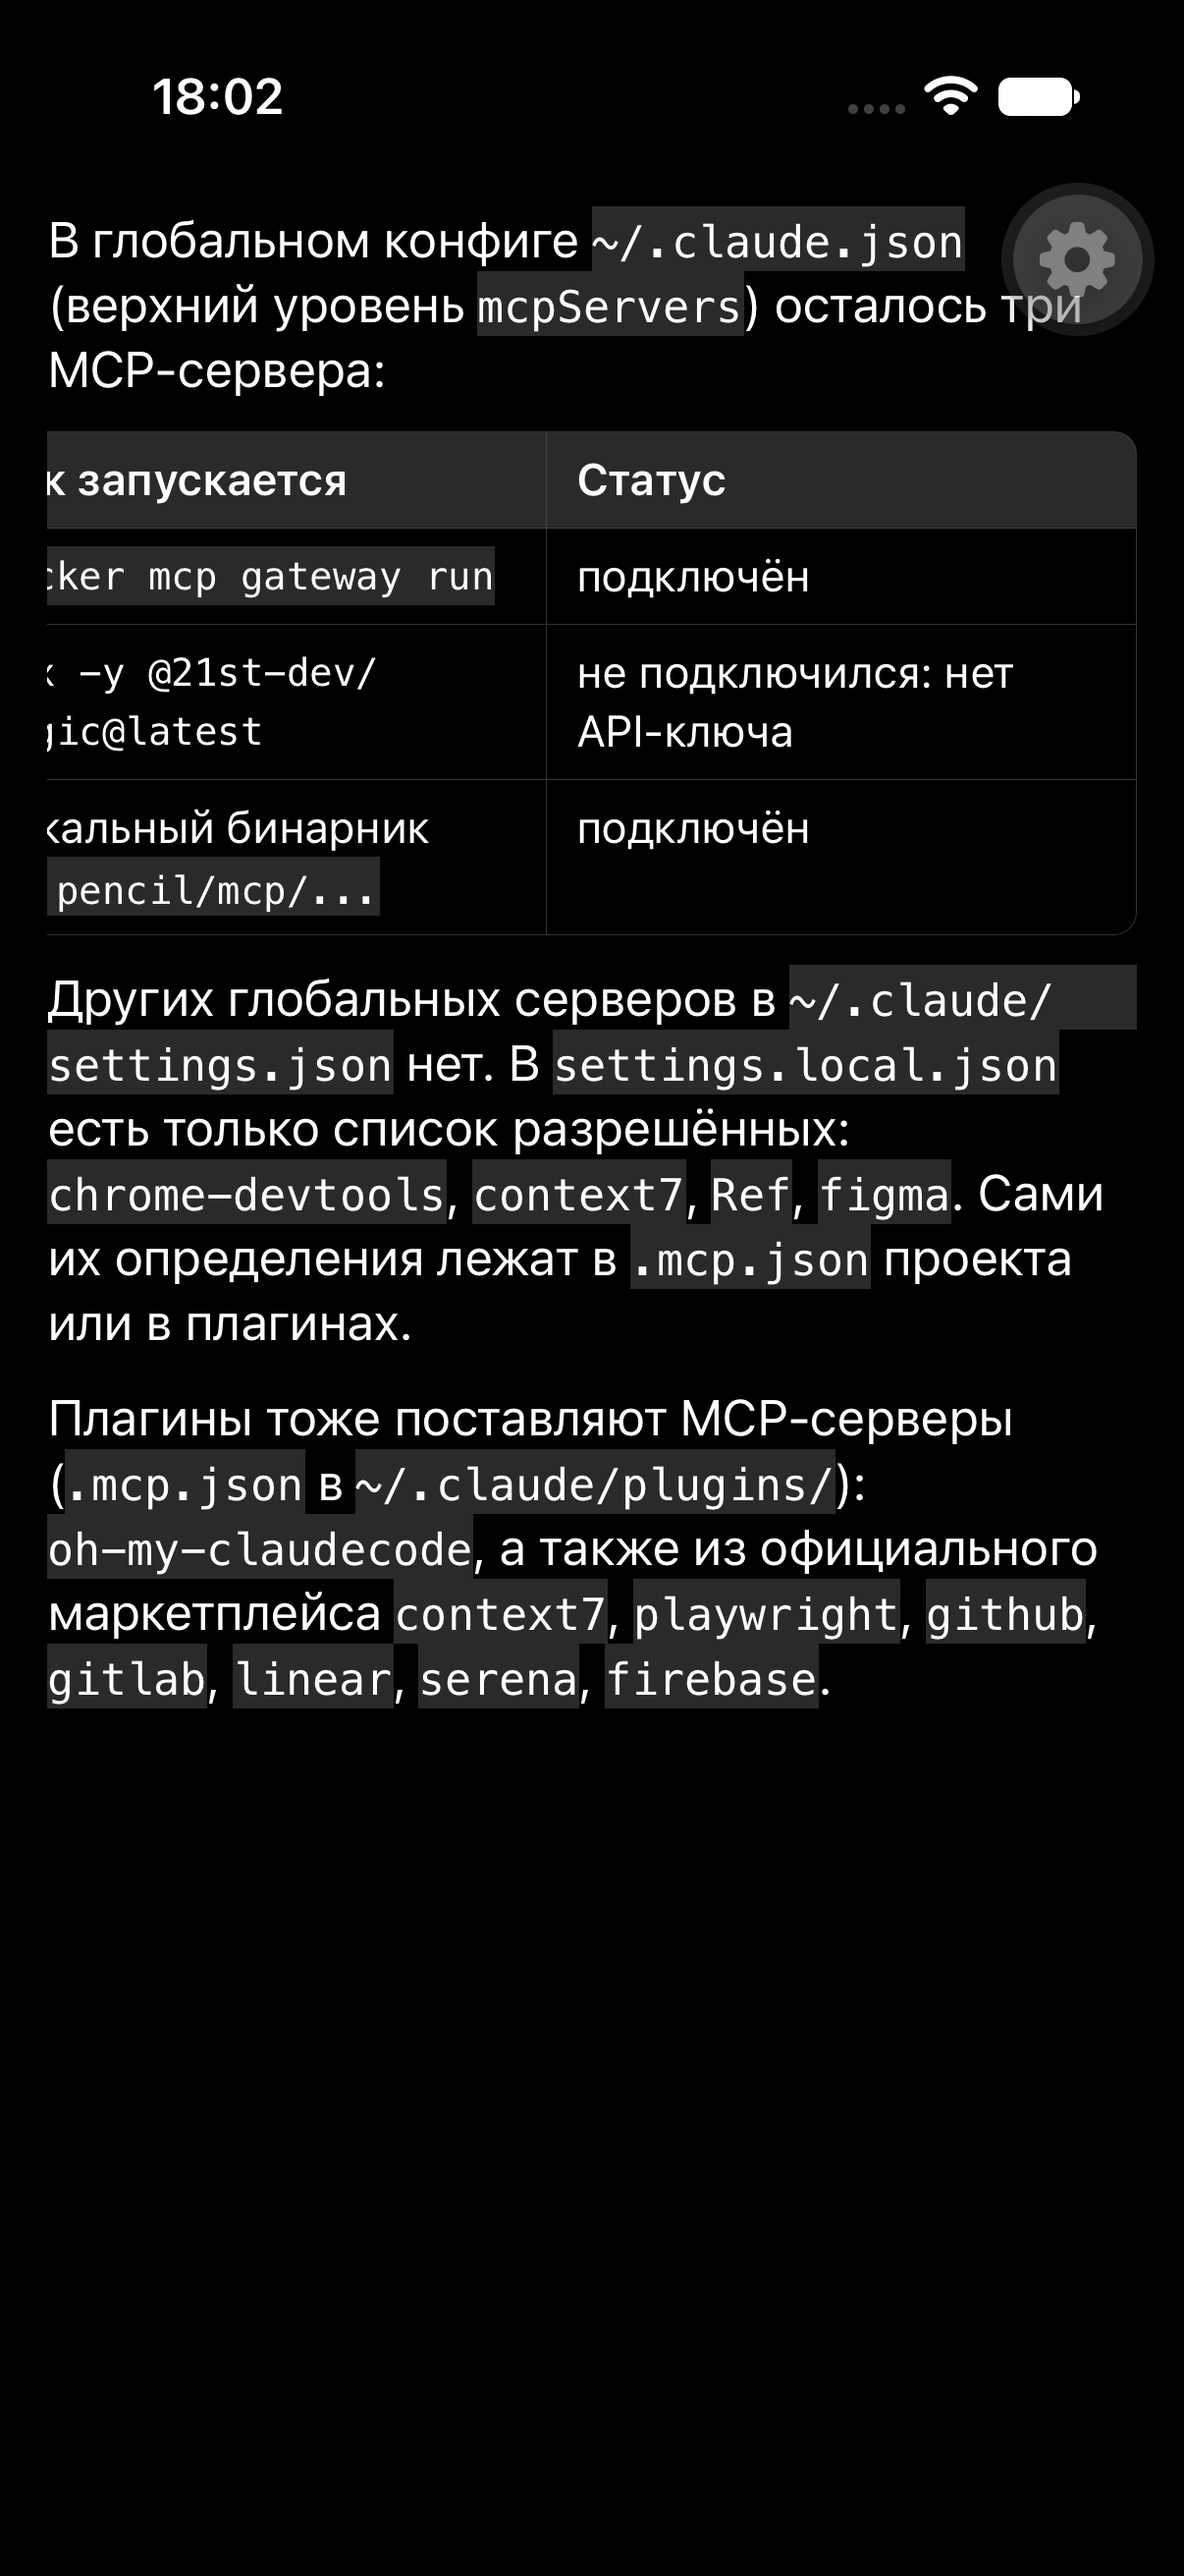
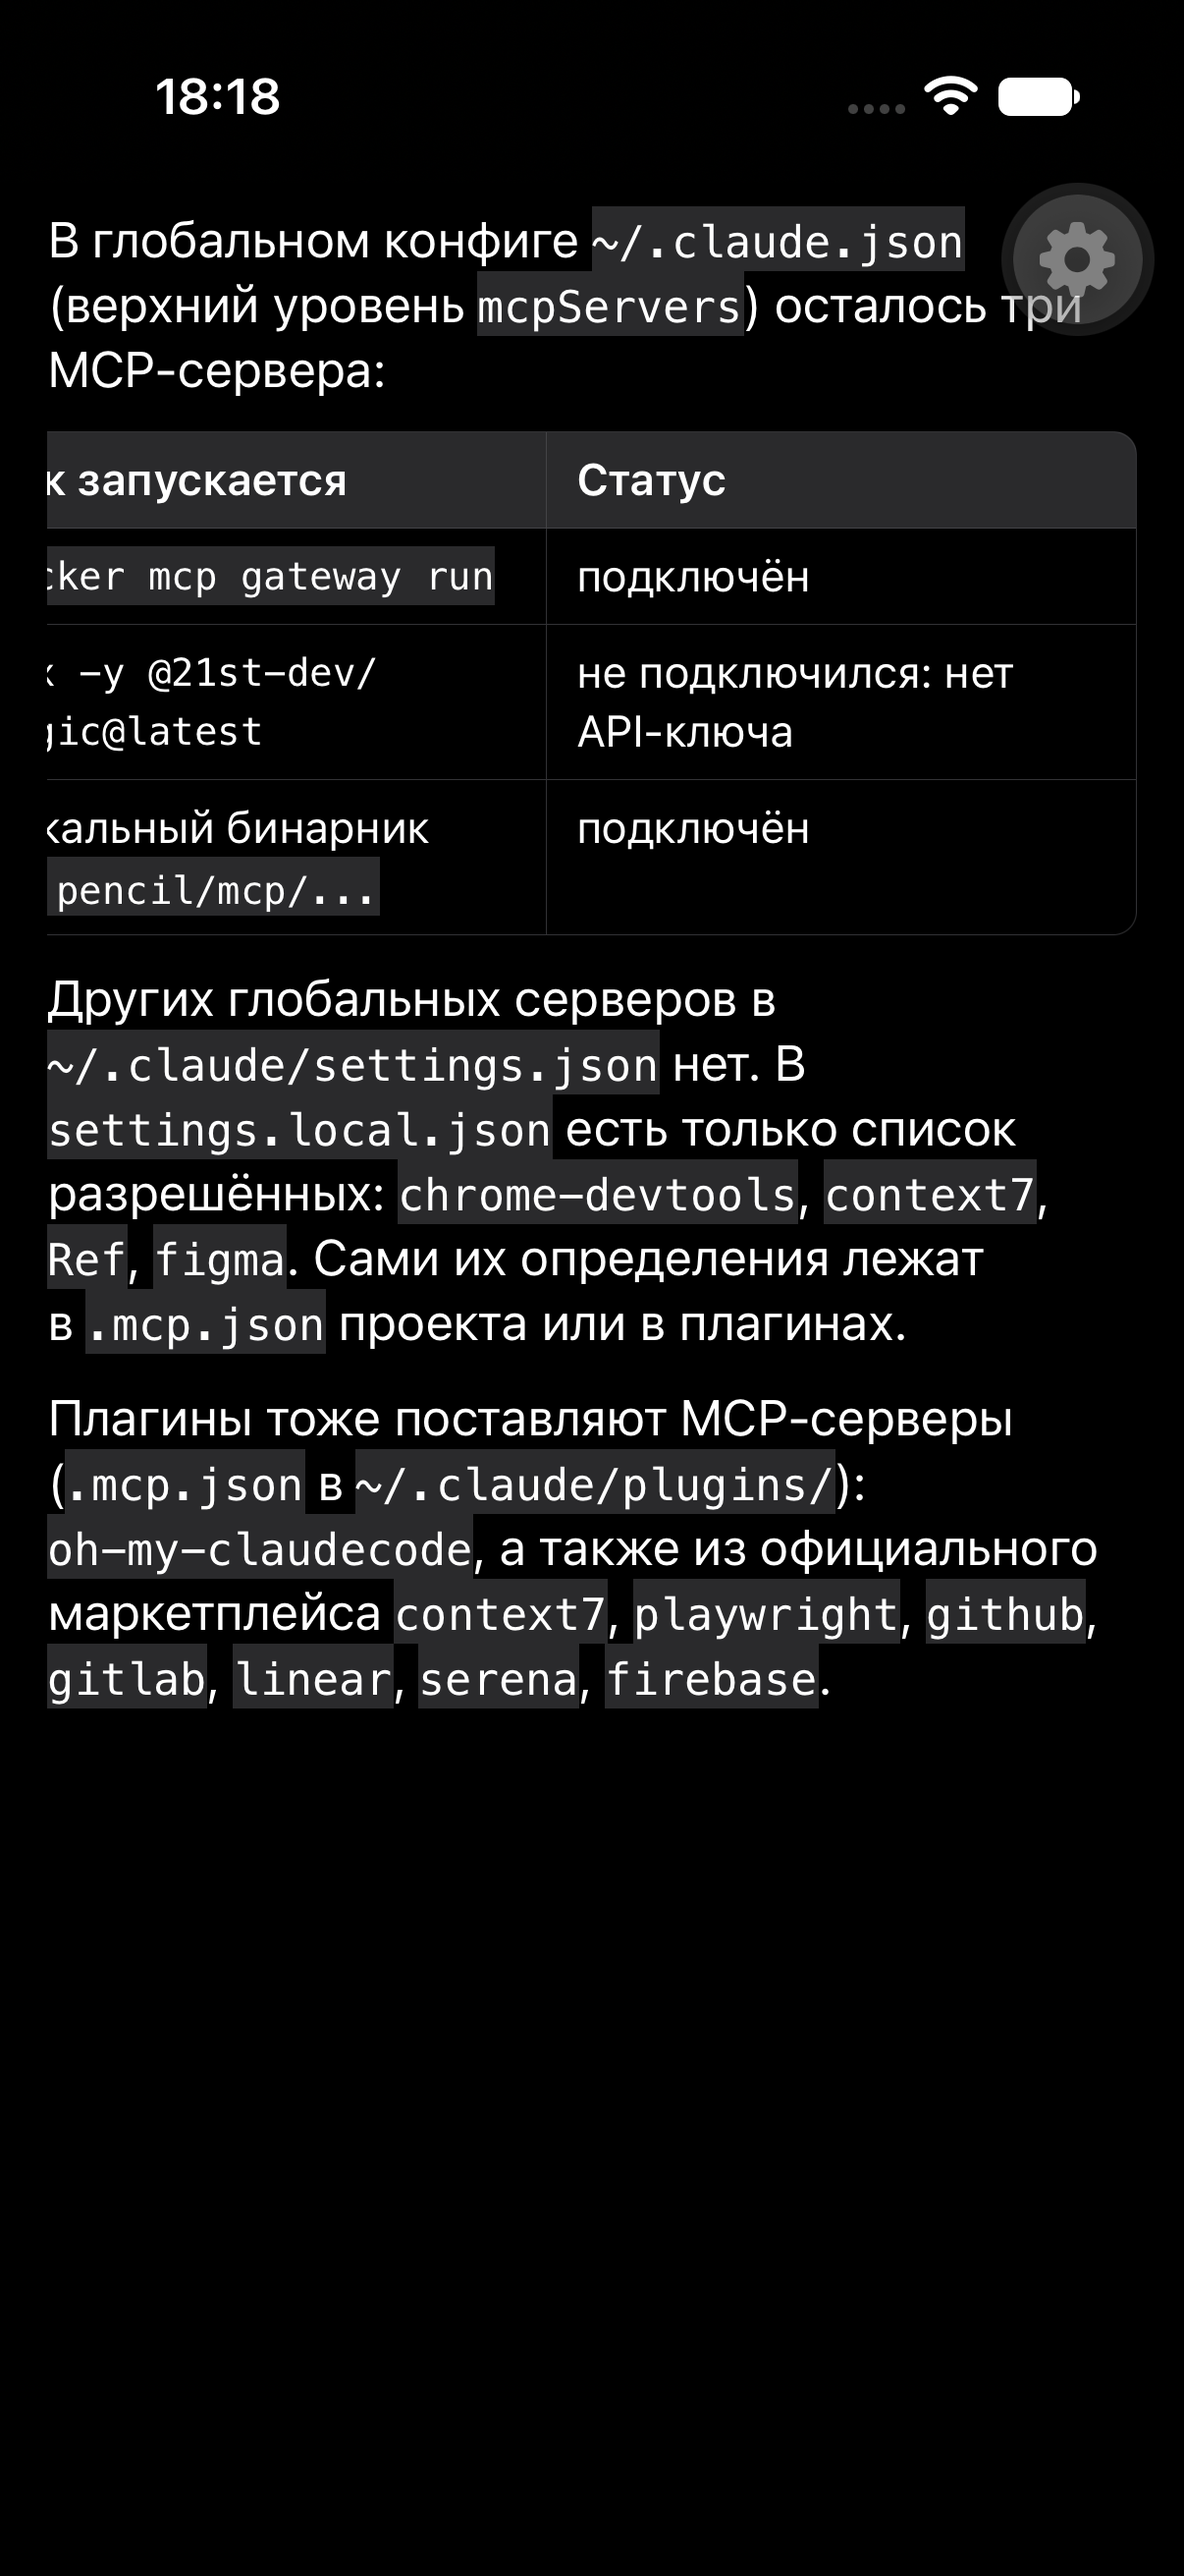
fix(mobile): A40 fourth round - the fence skip can no longer hide a bomb
M6 a fence is recognised as CommonMark does (a backtick fence has no backtick
in its info string; fences also inside quotes); no fence counts inside a
candidate HTML block (up to the next blank line), and HTML blocks of types
1-5 switch the code skip off for the rest of the text; every guard count is
also kept over the whole text with nothing skipped and any of them over 4x its
limit shows raw text. The bomb regression now also runs each generator behind
a fake fence, an HTML block, an HTML comment, a tilde info line and a quote
fence. m17 a heading ends the lazy-line count. m14 short inline code that
keeps its fill does not wrap (U+2060 after "/", no-break spaces). Screenshots
table and path retaken.

Changed region(s): [[0.0307, 0.3707, 0.9818, 0.5252], [0.1227, 0.0309, 0.2454, 0.0618]]

diff --git a/packages/mobile/src/markdown/parse.ts b/packages/mobile/src/markdown/parse.ts
@@ -69,65 +69,114 @@ export const MD_BRACKETS_MAX = 2000;
 export const MD_BRACKET_DEPTH_MAX = 32;
 export const MD_LAZY_RUN_MAX = 500;
 export const MD_LINES_MAX = 5000;
+/** The counts over the whole text (code not skipped) may reach this many times a limit. */
+const BACKSTOP = 4;
 
 /** A quote or list marker; `>` needs no space after it (CommonMark), a list marker does. */
 const MARKER = '(?:>|(?:[-+*]|\\d{1,9}[.)])(?=[ \\t]|$))';
 /** Quote and list markers on one line, counted together (`- - - …`, `>- >- …`): they hang the parse itself. */
-const MARKERS_TOO_DEEP = new RegExp(`^(?:[ \\t]*${MARKER}){${MD_NEST_MAX + 1}}`);
-const BLOCK_MARKER = new RegExp(`^[ \\t]*(?:${MARKER}|#{1,6}(?:[ \\t]|$))`);
+const markersRe = (n: number): RegExp => new RegExp(`^(?:[ \\t]*${MARKER}){${n}}`);
+const MARKERS_TOO_DEEP = markersRe(MD_NEST_MAX + 1);
+/** The same count over every line, thematic breaks and code included: the backstop (4× the limit). */
+const MARKERS_TOO_DEEP_RAW = markersRe(MD_NEST_MAX * BACKSTOP + 1);
+const BLOCK_MARKER = new RegExp(`^[ \\t]*${MARKER}`);
+const HEADING = /^ {0,3}#{1,6}(?:[ \t]|$)/;
 const THEMATIC_BREAK = /^ {0,3}([-*_])(?:[ \t]*\1){2,}[ \t]*$/;
-const FENCE = /^ {0,3}(`{3,}|~{3,})/;
+/** A fence as CommonMark has it, also inside quotes: a backtick fence has no backtick in its info string. */
+const FENCE_OPEN = /^(?:[ \t]*>)*[ \t]{0,3}(?:(`{3,})[^`]*|(~{3,}).*)$/;
+const FENCE_CLOSE = /^(?:[ \t]*>)*[ \t]{0,3}(`{3,}|~{3,})[ \t]*$/;
+/** A line that may open an HTML block (up to 3 spaces, then `<`): no fence counts in it up to the next blank line. */
+const HTML_START = /^ {0,3}</;
+/** HTML blocks of types 1–5 run to a closing marker, not to a blank line: no code is skipped from here on. */
+const HTML_LONG = /^ {0,3}<(?:(?:script|pre|style|textarea)(?:[ \t>]|$)|!--|\?|![A-Za-z]|!\[CDATA\[)/i;
 
 /**
- * Pre-parse guards (A40 critic M2, M3, M5): text that would hang the parser is shown raw. One pass over the lines, with
- * fenced code skipped (code is not parsed, so its `[`, `*` and markers cost nothing and must not count):
+ * Pre-parse guards (A40 critic M2, M3, M5, M6): text that would hang the parser is shown raw. One pass over the lines;
+ * fenced code is skipped (code is not parsed, so its `[`, `*` and markers cost nothing and must not count), but the
+ * skip is only a convenience: every count is ALSO kept over the whole text with nothing skipped, and any of them over
+ * 4× its limit shows raw text, so a fence the parser does not agree with can never hide a bomb.
  *  - more than 64 KB; more than 2000 `*`, `_`, `~`; more than 2000 `[` or `[` nested deeper than 32 (an ESC `[` of an
  *    ANSI colour does not count);
  *  - 25 quote/list markers on one line (not a thematic break such as `- - - …`);
- *  - a run of more than 500 lines without a block marker after a quote/list line (lazy continuation is quadratic), and,
- *    as a backstop, more than 5000 non-empty lines outside fenced code.
+ *  - a run of more than 500 lines without a block marker after a quote/list line (lazy continuation is quadratic; a
+ *    heading ends it), and, as a backstop, more than 5000 non-empty lines.
  */
 export const tooHeavy = (text: string): boolean => {
   if (text.length > MD_BYTES_MAX) return true;
-  let emphasis = 0;
-  let brackets = 0;
-  let depth = 0;
-  let lines = 0;
-  let lazy = 0;
-  let inBlock = false;
+  // Counts with the code skipped (limit) and over everything (BACKSTOP × limit).
+  const skip = { emphasis: 0, brackets: 0, depth: 0, lines: 0, lazy: 0, inBlock: false };
+  const all = { emphasis: 0, brackets: 0, depth: 0, lines: 0, lazy: 0, inBlock: false };
   let fence: string | null = null;
+  let html = false;
+  let codeSkipOff = false;
   for (const line of text.split('\n')) {
-    const open = FENCE.exec(line);
+    const blank = line.trim() === '';
+    // Everything, nothing skipped.
+    if (blank) {
+      all.inBlock = false;
+      all.lazy = 0;
+    } else {
+      if (++all.lines > MD_LINES_MAX * BACKSTOP) return true;
+      if (MARKERS_TOO_DEEP_RAW.test(line)) return true;
+      if (HEADING.test(line)) {
+        all.inBlock = false;
+        all.lazy = 0;
+      } else if (BLOCK_MARKER.test(line)) {
+        all.inBlock = true;
+        all.lazy = 0;
+      } else if (all.inBlock && ++all.lazy > MD_LAZY_RUN_MAX * BACKSTOP) return true;
+      // Over everything only the totals count: unclosed `[` in code (600 log lines) are legal, so no depth limit here.
+      if (count(line, all, BACKSTOP, Infinity)) return true;
+    }
+    // The fence / HTML state, as far as the guard can tell.
     if (fence !== null) {
-      if (open !== null && open[1]![0] === fence[0] && open[1]!.length >= fence.length && line.trim().length === open[1]!.length) fence = null;
+      const close = FENCE_CLOSE.exec(line);
+      if (close !== null && close[1]![0] === fence[0] && close[1]!.length >= fence.length) fence = null;
       continue;
     }
-    if (open !== null) {
-      fence = open[1]!;
+    if (blank) {
+      html = false;
+      skip.inBlock = false;
+      skip.lazy = 0;
       continue;
     }
-    if (line.trim() === '') {
-      inBlock = false;
-      lazy = 0;
-      continue;
+    if (!html && !codeSkipOff) {
+      const open = FENCE_OPEN.exec(line);
+      if (open !== null) {
+        fence = open[1] ?? open[2]!;
+        continue;
+      }
     }
-    if (++lines > MD_LINES_MAX) return true;
+    if (HTML_START.test(line)) {
+      html = true;
+      if (HTML_LONG.test(line)) codeSkipOff = true;
+    }
+    if (++skip.lines > MD_LINES_MAX) return true;
     if (!THEMATIC_BREAK.test(line) && MARKERS_TOO_DEEP.test(line)) return true;
-    if (BLOCK_MARKER.test(line)) {
-      inBlock = true;
-      lazy = 0;
-    } else if (inBlock && ++lazy > MD_LAZY_RUN_MAX) return true;
-    for (let i = 0; i < line.length; i++) {
-      const ch = line.charCodeAt(i);
-      if ((ch === 42 || ch === 95 || ch === 126) && ++emphasis > MD_EMPHASIS_MAX) return true;
-      // `[` bombs: unmatched or deeply nested brackets make link resolution quadratic.
-      if (ch === 91 && (i === 0 || line.charCodeAt(i - 1) !== 27)) {
-        if (++brackets > MD_BRACKETS_MAX || ++depth > MD_BRACKET_DEPTH_MAX) return true;
-      } else if (ch === 93 && depth > 0) depth--;
-    }
+    if (HEADING.test(line)) {
+      skip.inBlock = false;
+      skip.lazy = 0;
+    } else if (BLOCK_MARKER.test(line)) {
+      skip.inBlock = true;
+      skip.lazy = 0;
+    } else if (skip.inBlock && ++skip.lazy > MD_LAZY_RUN_MAX) return true;
+    if (count(line, skip, 1)) return true;
   }
   return false;
 };
+
+/** Emphasis and bracket counts of one line against `factor` × the limits; `[` nests, `]` closes. */
+function count(line: string, c: { emphasis: number; brackets: number; depth: number }, factor: number, depthMax = MD_BRACKET_DEPTH_MAX): boolean {
+  for (let i = 0; i < line.length; i++) {
+    const ch = line.charCodeAt(i);
+    if ((ch === 42 || ch === 95 || ch === 126) && ++c.emphasis > MD_EMPHASIS_MAX * factor) return true;
+    // `[` bombs: unmatched or deeply nested brackets make link resolution quadratic.
+    if (ch === 91 && (i === 0 || line.charCodeAt(i - 1) !== 27)) {
+      if (++c.brackets > MD_BRACKETS_MAX * factor || ++c.depth > depthMax) return true;
+    } else if (ch === 93 && c.depth > 0) c.depth--;
+  }
+  return false;
+}
 
 /** Lists and quotes nested inside each other, counted together. */
 export const nestDepth = (n: MdNode): number => {

diff --git a/packages/mobile/src/markdown/parse.test.ts b/packages/mobile/src/markdown/parse.test.ts
@@ -376,7 +376,7 @@ describe('lazy continuation, false positives and the bomb regression (A40 critic
     // ESC [ does not count in prose either
     expect(types(parseMarkdown(`${'\u001b[32mx '.repeat(40)}`))).toEqual(['paragraph']);
     // brackets, emphasis and markers inside fenced code do not count
-    const heavyCode = `\`\`\`\n${'[['.repeat(3000)}\n${'* '.repeat(3000)}\n${'- '.repeat(30)}\n\`\`\``;
+    const heavyCode = `\`\`\`\n${'[a] [b] '.repeat(700)}\n${'a*b '.repeat(700)}\n${'- '.repeat(30)}\n\`\`\``;
     expect(kids(parseMarkdown(heavyCode))[0]!.type).toBe('code');
   });
 
@@ -411,12 +411,49 @@ describe('lazy continuation, false positives and the bomb regression (A40 critic
       autolinks: fill('<https://a.b> '),
       definitions: fill('[a]: x\n'),
     };
+    // Every generator also behind a line that looks like a fence or an HTML block to a naive guard but not to CommonMark
+    // (A40 critic M6): the guard must not let one line in front hide a bomb.
+    const prefixes: Record<string, string> = {
+      plain: '',
+      badFence: '```a`\n',
+      htmlThenFence: '<div>\n```\n\n',
+      commentFence: '<!--\n```\n-->\n\n',
+      tildeInfo: '~~~ a`b\n',
+      quoteFence: '> ```\n',
+    };
     const slow: string[] = [];
     for (const [name, bomb] of Object.entries(generators)) {
-      // The best of two runs: a busy CI machine may stall one run, a real hang (seconds) stalls both.
-      const ms = Math.min(timed(bomb).ms, timed(bomb).ms);
-      if (ms > 500) slow.push(`${name}: ${Math.round(ms)} ms`);
+      for (const [pname, prefix] of Object.entries(prefixes)) {
+        // The best of two runs: a busy CI machine may stall one run, a real hang (seconds) stalls both.
+        const input = prefix + bomb;
+        const ms = Math.min(timed(input).ms, timed(input).ms);
+        if (ms > 500) slow.push(`${pname}+${name}: ${Math.round(ms)} ms`);
+      }
     }
     expect(slow).toEqual([]);
+  });
+});
+
+describe('guards: fence recognition, headings, short inline code (A40 critic M6, m17, m14)', () => {
+  it('a heading is not a lazy-line container', () => {
+    const doc = `# Files\n${'plain line\n'.repeat(600)}`;
+    expect(types(parseMarkdown(doc))[0]).toBe('heading');
+  });
+
+  it('a fence inside a quote is recognised: code with many [ in a quote stays Markdown', () => {
+    const doc = `> \`\`\`\n${'> line [x\n'.repeat(600)}> \`\`\`\n\ntext`;
+    expect(types(parseMarkdown(doc))).toEqual(['blockquote', 'paragraph']);
+  });
+
+  it('a real fence still skips, a fake one (backtick in the info string) does not', () => {
+    const bomb = '**_'.repeat(8000);
+    expect(plainText(parseMarkdown(`\`\`\`a\`\n${bomb}`))).toContain('**_**_');
+    expect(types(parseMarkdown(`\`\`\`js\n${'*'.repeat(500)}\n\`\`\`\n\nok`))).toEqual(['code', 'paragraph']);
+  });
+
+  it('short inline code does not wrap: no-break space and U+2060 after "/"', () => {
+    expect(codeText('~/.claude/settings.json', true)).toBe('~/\u2060.claude/\u2060settings.json');
+    expect(codeText('docker mcp run', true)).toBe('docker\u00A0mcp\u00A0run');
+    expect(codeText('a b/c', false)).toBe('a b/c');
   });
 });

diff --git a/packages/mobile/src/markdown/helpers.ts b/packages/mobile/src/markdown/helpers.ts
@@ -6,8 +6,15 @@ export type Defs = Map<string, { url: string; title: string | null }>;
 /** Inline code: no break at a hyphen (U+2060 word joiner after each `-`, display only); a path breaks at `/`. */
 export const noHyphenBreak = (s: string): string => s.replace(/-/g, '-\u2060');
 
-/** Inline code as shown: a newline inside it is a space (CommonMark, the window's `<code>`), hyphens do not break. */
-export const codeText = (value: string): string => noHyphenBreak(value.replace(/\r\n|\r|\n/g, ' '));
+/**
+ * Inline code as shown: a newline inside it is a space (CommonMark, the window's `<code>`), hyphens do not break.
+ * `noWrap` (short code that keeps its fill): it does not wrap at all, a U+2060 after `/` and a no-break space instead
+ * of a space, because iOS stretches the fill of a wrapped nested Text to the line end.
+ */
+export const codeText = (value: string, noWrap = false): string => {
+  const text = noHyphenBreak(value.replace(/\r\n|\r|\n/g, ' '));
+  return noWrap ? text.replace(/\//g, '/\u2060').replace(/ /g, '\u00A0') : text;
+};
 
 /** The address of a `link`/`image` or, for a reference, of its definition; '' when there is none. */
 export function addressOf(node: MdNode, defs: Defs): string {

diff --git a/packages/mobile/src/markdown/Markdown.tsx b/packages/mobile/src/markdown/Markdown.tsx
@@ -59,7 +59,7 @@ function Inlines({ nodes, ctx, size }: { nodes: MdNode[]; ctx: Ctx; size: number
           case 'inlineCode':
             return (
               <Text key={i} style={[styles.mono, { fontSize: Math.max(11, size - 2) }, (n.value ?? '').length <= INLINE_FILL_MAX && { backgroundColor: c.codeFill }]}>
-                {codeText(n.value ?? '')}
+                {codeText(n.value ?? '', (n.value ?? '').length <= INLINE_FILL_MAX)}
               </Text>
             );
           case 'link':
